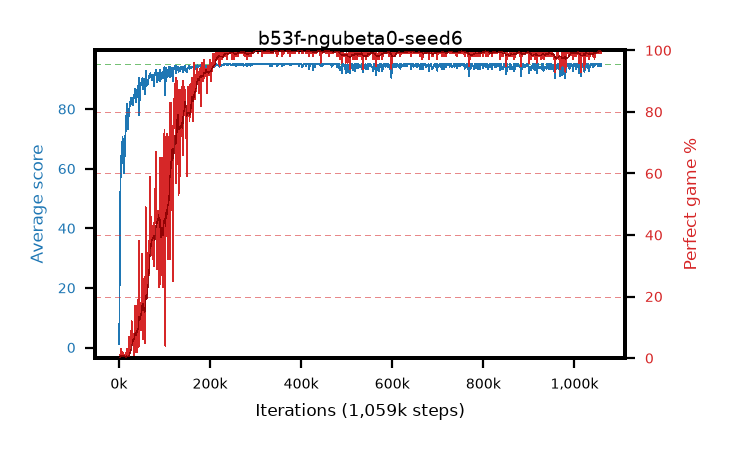
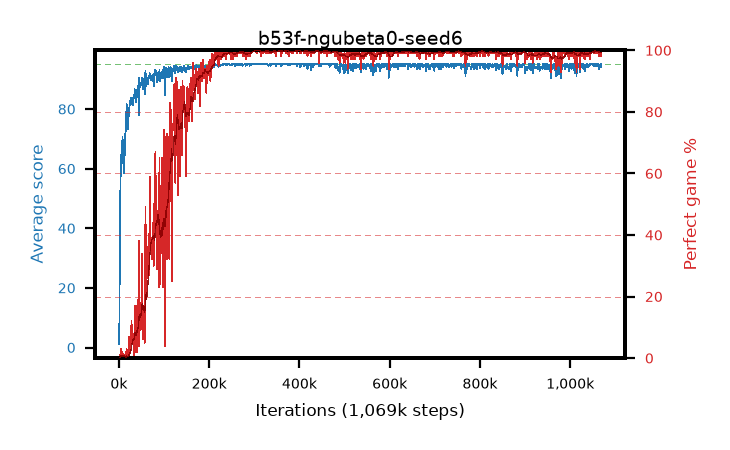
live pictures of 4 arm(s)

diff --git a/results/b53h-ngubeta0-seed8/b53h-ngubeta0-seed8.md b/results/b53h-ngubeta0-seed8/b53h-ngubeta0-seed8.md
@@ -1,6 +1,6 @@
 # b53h-ngubeta0-seed8
 
-step **1,079,000** · 1079 evals · trailing **94.43** · peak **94.92** @356,000 · sef **91.3** · best30 **99.7** @539,000
+step **1,089,000** · 1089 evals · trailing **94.26** · peak **94.92** @356,000 · sef **91.4** · best30 **99.7** @539,000
 
 ## Config
 
@@ -80,15 +80,15 @@ step **1,079,000** · 1079 evals · trailing **94.43** · peak **94.92** @356,00
 | 2000 | 50.19 | 26.7 | 2.0 | 95.0 | 51.185 | 6.0 | 0.4 |
 | 3000 | 57.71 | 37.03 | 27.0 | 95.0 | 54.481 | 2.0 | 0.4 |
 | ... | ... | ... | ... | ... | ... | ... | ... |
-| 1068000 | 92.96 | 94.47 | 26.0 | 95.0 | 188.627 | 97.0 | 0.4 |
-| 1069000 | 93.6 | 94.42 | 24.0 | 95.0 | 190.302 | 98.0 | 0.4 |
-| 1070000 | 95.0 | 94.45 | 95.0 | 95.0 | 193.775 | 100.0 | 0.4 |
-| 1071000 | 95.0 | 94.45 | 95.0 | 95.0 | 193.782 | 100.0 | 0.4 |
-| 1072000 | 95.0 | 94.45 | 95.0 | 95.0 | 193.777 | 100.0 | 0.4 |
-| 1073000 | 94.24 | 94.44 | 24.0 | 95.0 | 190.994 | 98.0 | 0.4 |
-| 1074000 | 94.78 | 94.44 | 73.0 | 95.0 | 192.523 | 99.0 | 0.4 |
-| 1075000 | 95.0 | 94.44 | 95.0 | 95.0 | 193.785 | 100.0 | 0.4 |
-| 1076000 | 95.0 | 94.46 | 95.0 | 95.0 | 193.783 | 100.0 | 0.4 |
-| 1077000 | 95.0 | 94.48 | 95.0 | 95.0 | 193.78 | 100.0 | 0.4 |
 | 1078000 | 94.19 | 94.45 | 14.0 | 95.0 | 191.927 | 99.0 | 0.4 |
 | 1079000 | 94.34 | 94.43 | 29.0 | 95.0 | 192.076 | 99.0 | 0.4 |
+| 1080000 | 94.28 | 94.42 | 23.0 | 95.0 | 192.023 | 99.0 | 0.4 |
+| 1081000 | 92.44 | 94.34 | 20.0 | 95.0 | 187.07 | 96.0 | 0.4 |
+| 1082000 | 94.29 | 94.34 | 24.0 | 95.0 | 192.028 | 99.0 | 0.4 |
+| 1083000 | 90.74 | 94.22 | 18.0 | 95.0 | 183.292 | 94.0 | 0.4 |
+| 1084000 | 95.0 | 94.27 | 95.0 | 95.0 | 193.79 | 100.0 | 0.4 |
+| 1085000 | 93.95 | 94.26 | 27.0 | 95.0 | 189.612 | 97.0 | 0.4 |
+| 1086000 | 95.0 | 94.31 | 95.0 | 95.0 | 193.78 | 100.0 | 0.4 |
+| 1087000 | 94.34 | 94.29 | 30.0 | 95.0 | 191.047 | 98.0 | 0.4 |
+| 1088000 | 93.37 | 94.23 | 21.0 | 95.0 | 189.035 | 97.0 | 0.4 |
+| 1089000 | 94.37 | 94.26 | 32.0 | 95.0 | 192.106 | 99.0 | 0.4 |

diff --git a/results/b53f-ngubeta0-seed6/b53f-ngubeta0-seed6.md b/results/b53f-ngubeta0-seed6/b53f-ngubeta0-seed6.md
@@ -1,6 +1,6 @@
 # b53f-ngubeta0-seed6
 
-step **1,059,000** · 1059 evals · trailing **94.6** · peak **94.99** @323,000 · sef **87.3** · best30 **99.8** @323,000
+step **1,069,000** · 1069 evals · trailing **94.66** · peak **94.99** @323,000 · sef **87.4** · best30 **99.8** @323,000
 
 ## Config
 
@@ -80,15 +80,15 @@ step **1,059,000** · 1059 evals · trailing **94.6** · peak **94.99** @323,000
 | 2000 | 35.17 | 18.16 | 10.0 | 67.0 | 29.965 | 0.0 | 0.4 |
 | 3000 | 47.63 | 27.98 | 1.0 | 93.0 | 42.642 | 0.0 | 0.4 |
 | ... | ... | ... | ... | ... | ... | ... | ... |
-| 1048000 | 95.0 | 94.52 | 95.0 | 95.0 | 193.786 | 100.0 | 0.4 |
-| 1049000 | 95.0 | 94.52 | 95.0 | 95.0 | 193.787 | 100.0 | 0.4 |
-| 1050000 | 95.0 | 94.52 | 95.0 | 95.0 | 193.787 | 100.0 | 0.4 |
-| 1051000 | 95.0 | 94.54 | 95.0 | 95.0 | 193.789 | 100.0 | 0.4 |
-| 1052000 | 94.31 | 94.6 | 26.0 | 95.0 | 192.067 | 99.0 | 0.4 |
-| 1053000 | 95.0 | 94.6 | 95.0 | 95.0 | 193.777 | 100.0 | 0.4 |
-| 1054000 | 95.0 | 94.6 | 95.0 | 95.0 | 193.791 | 100.0 | 0.4 |
-| 1055000 | 94.25 | 94.58 | 20.0 | 95.0 | 192.005 | 99.0 | 0.4 |
-| 1056000 | 95.0 | 94.58 | 95.0 | 95.0 | 193.788 | 100.0 | 0.4 |
-| 1057000 | 94.29 | 94.58 | 24.0 | 95.0 | 192.03 | 99.0 | 0.4 |
 | 1058000 | 95.0 | 94.58 | 95.0 | 95.0 | 193.787 | 100.0 | 0.4 |
 | 1059000 | 94.27 | 94.6 | 22.0 | 95.0 | 192.025 | 99.0 | 0.4 |
+| 1060000 | 95.0 | 94.6 | 95.0 | 95.0 | 193.785 | 100.0 | 0.4 |
+| 1061000 | 95.0 | 94.65 | 95.0 | 95.0 | 193.782 | 100.0 | 0.4 |
+| 1062000 | 95.0 | 94.73 | 95.0 | 95.0 | 193.786 | 100.0 | 0.4 |
+| 1063000 | 94.28 | 94.72 | 23.0 | 95.0 | 192.028 | 99.0 | 0.4 |
+| 1064000 | 93.5 | 94.7 | 16.0 | 95.0 | 190.212 | 98.0 | 0.4 |
+| 1065000 | 94.29 | 94.71 | 24.0 | 95.0 | 192.036 | 99.0 | 0.4 |
+| 1066000 | 94.29 | 94.69 | 24.0 | 95.0 | 192.041 | 99.0 | 0.4 |
+| 1067000 | 95.0 | 94.69 | 95.0 | 95.0 | 193.786 | 100.0 | 0.4 |
+| 1068000 | 95.0 | 94.69 | 95.0 | 95.0 | 193.791 | 100.0 | 0.4 |
+| 1069000 | 94.07 | 94.66 | 27.0 | 95.0 | 190.776 | 98.0 | 0.4 |
